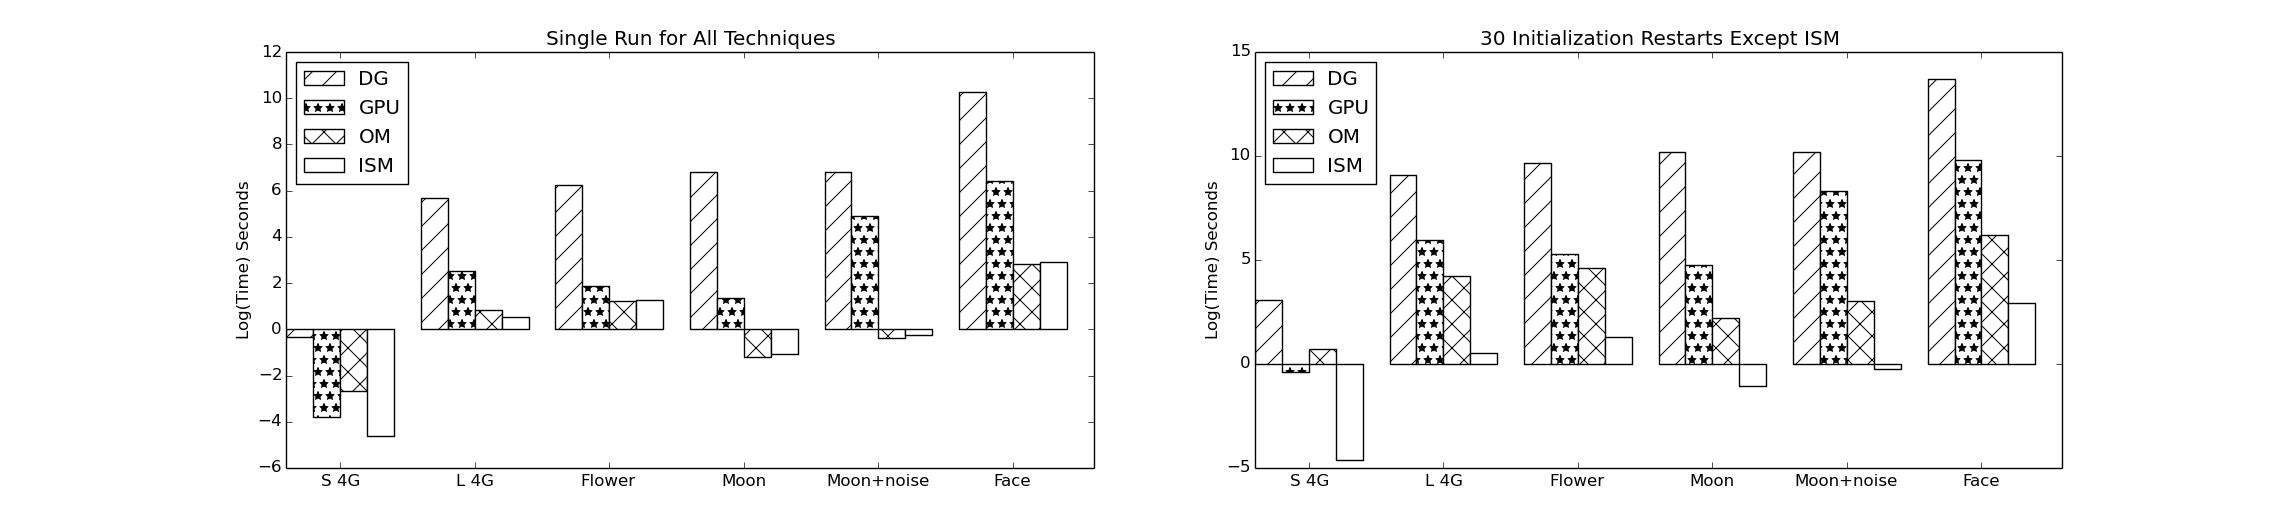
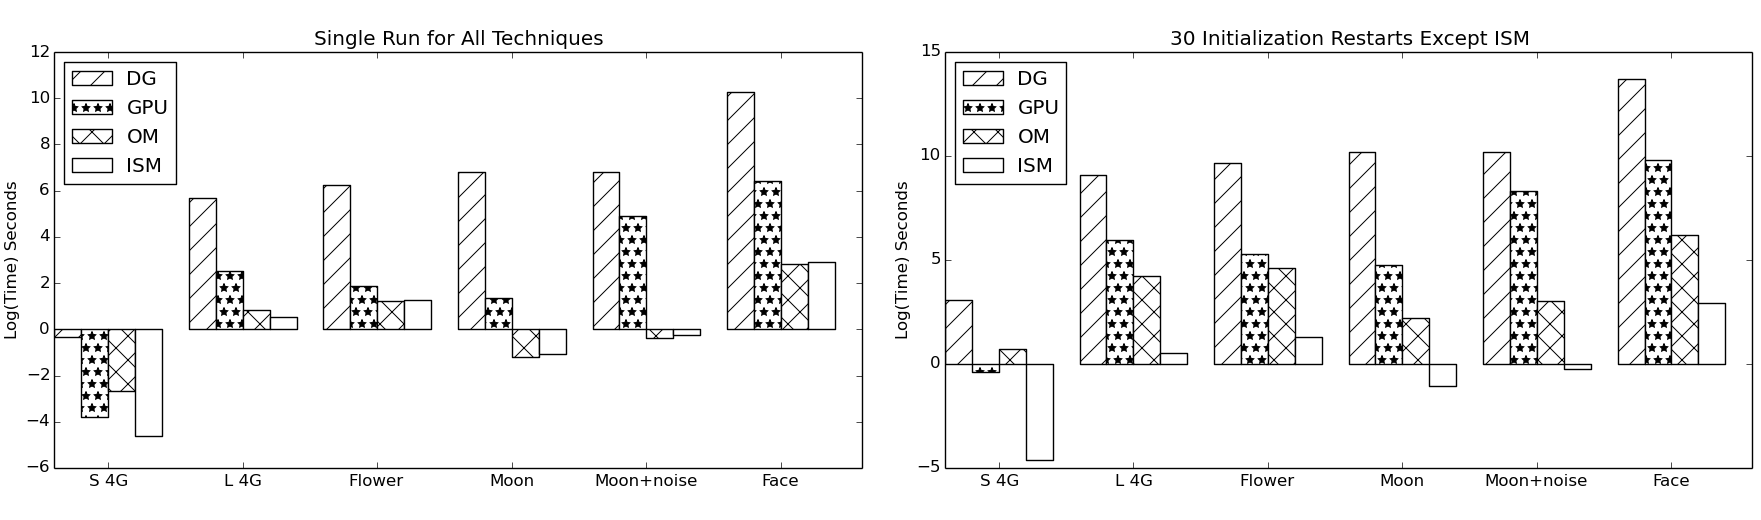
added plot_bar

diff --git a/alternate_spectral_clust/paper/plot_bar_speed.py b/alternate_spectral_clust/paper/plot_bar_speed.py
@@ -17,25 +17,13 @@ ISM = np.log(np.array([0.01, 1.7, 3.6, 0.35, 0.78, 18.56]))
 GPU = np.log(run_times*np.array([0.023, 12.67, 6.49, 3.8, 134, 600]))
 Orthogonal = np.log(run_times*np.array([0.07, 2.34, 3.4, 0.3, 0.68, 16.73]))
 
-#minMag = np.min(np.hstack((KDAC, ISM))) - 1
-#maxMag = np.max(np.hstack((KDAC, ISM))) + 1
-##print 'Min : ' , np.min(np.hstack((KDAC, ISM))) - 1
-#
-#
-#KDAC = KDAC + np.abs(minMag)
-#ISM = ISM + np.abs(minMag)
-
-
-
 
 N = len(KDAC)
-#men_std = (2, 3, 4, 1, 2)
 
 ind = np.arange(N)  # the x locations for the groups
 width = 0.20       # the width of the bars
 
 plt.subplot(122)
-#plt.bar(ind, KDAC, width, color='w', hatch="/" )
 rects1 = plt.bar(ind, KDAC, width, color='w', hatch="/" )
 rects2 = plt.bar(ind + width, GPU, width, color='w', hatch='*')
 rects3 = plt.bar(ind + 2*width, Orthogonal, width, color='w', hatch='x')
